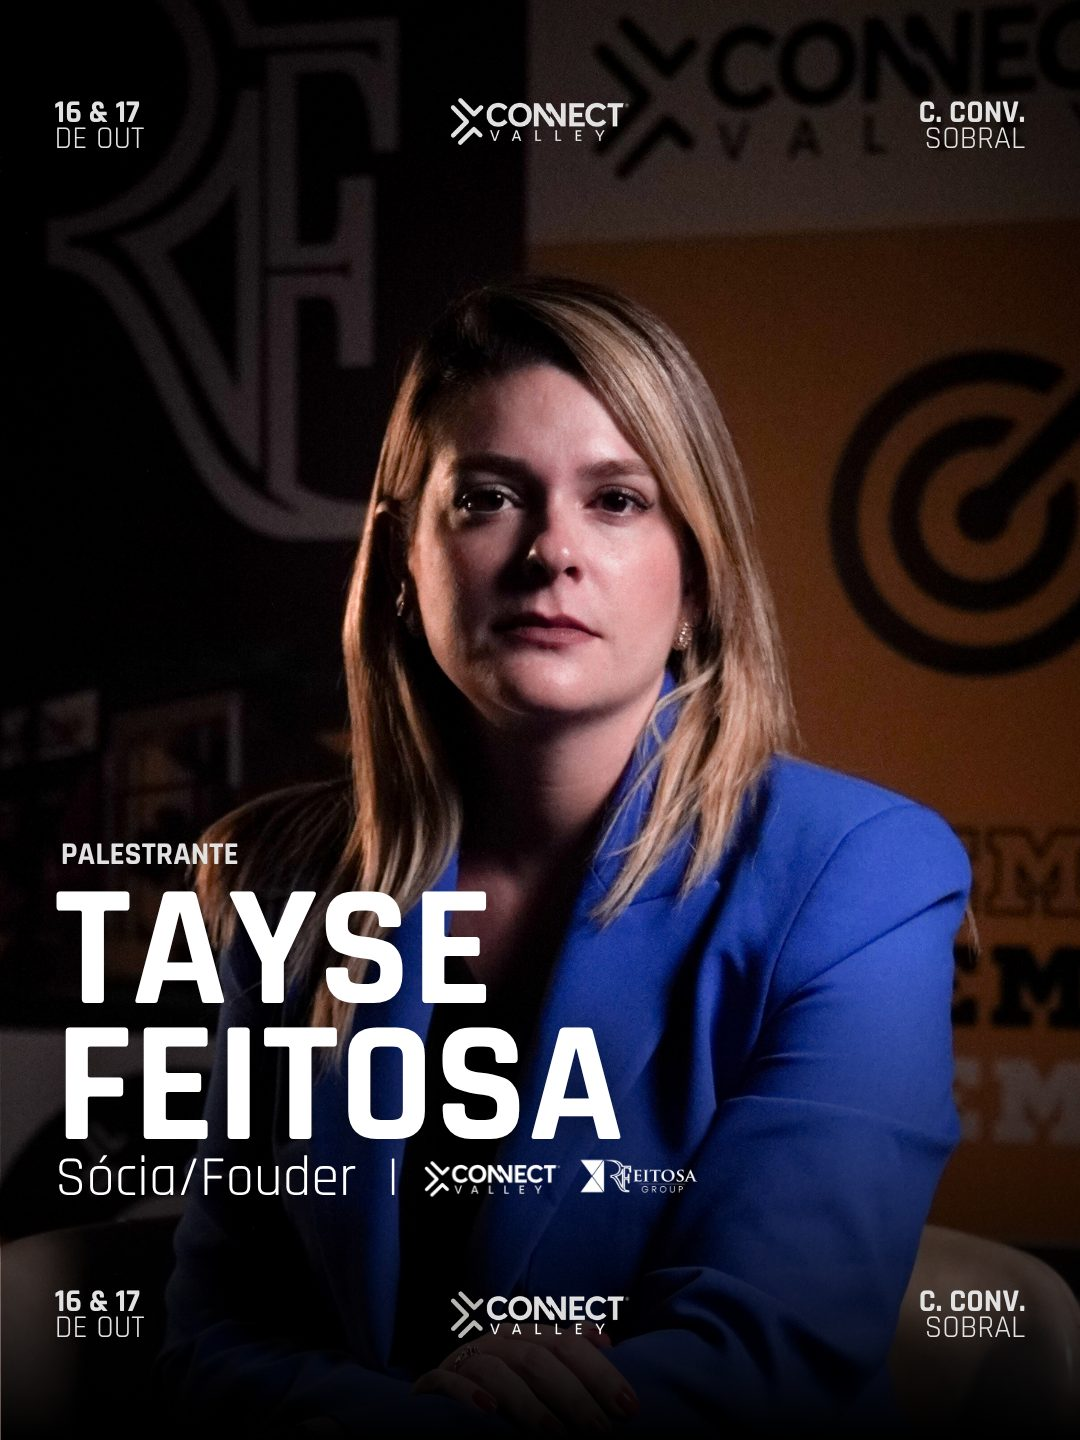
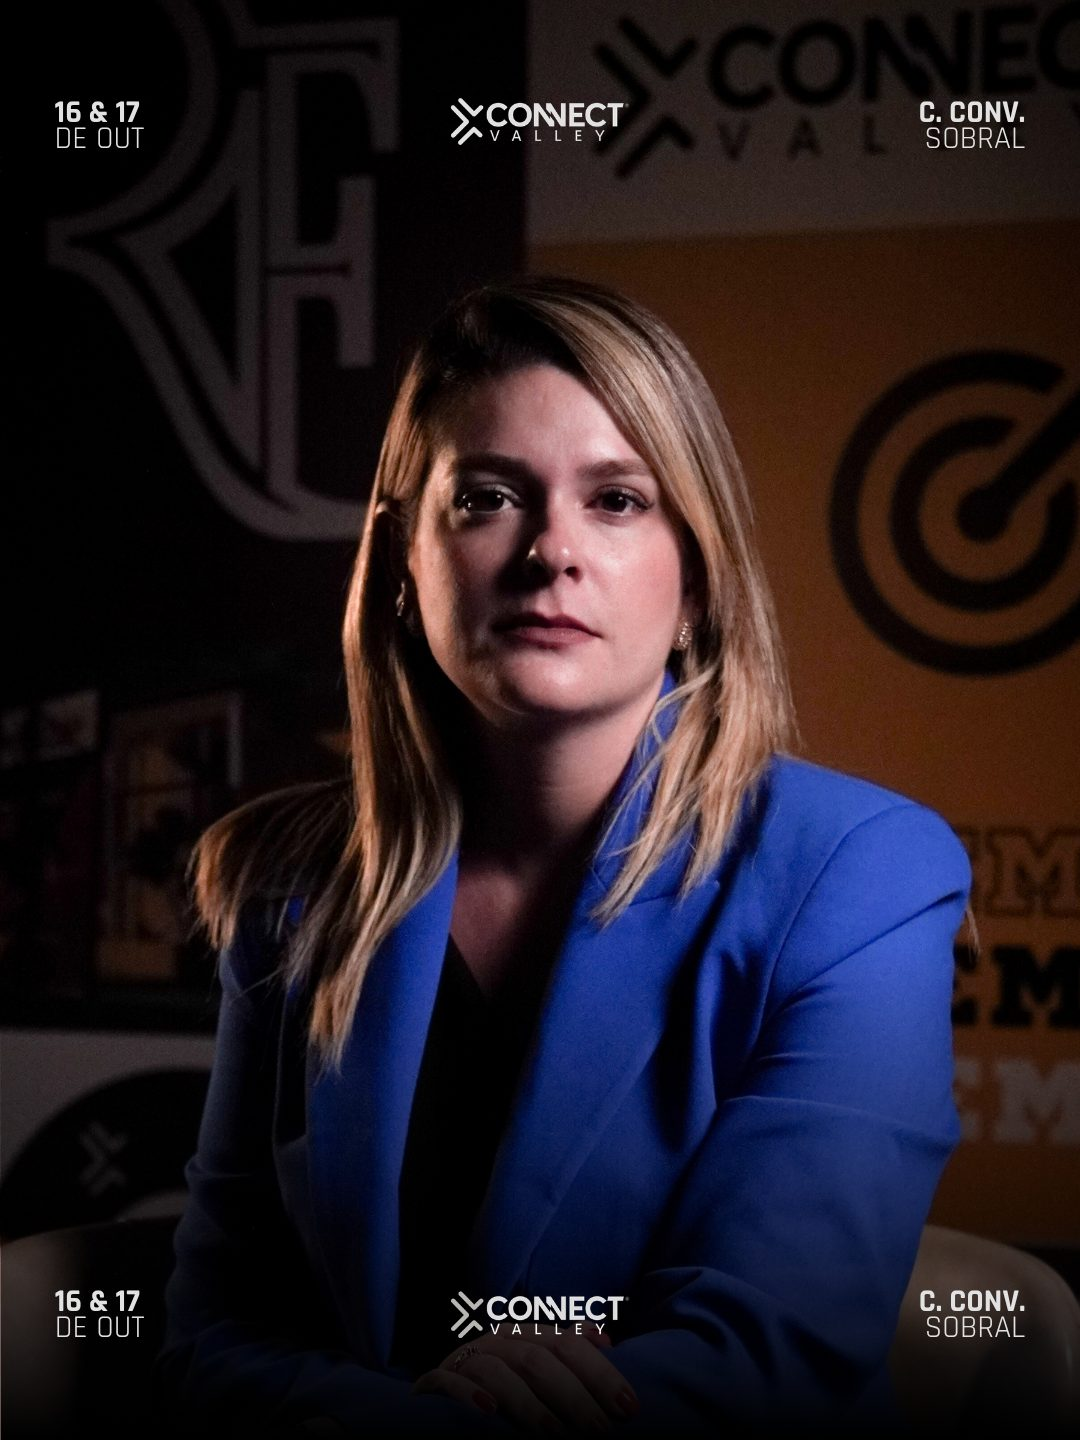
feat(palestrantes): troca os quatro retratos pela arte sem texto
Roneely, Severino, Nelson Rossi e Tayse. A arte nova não traz mais o nome
nem o cargo, o que resolve uma duplicação que existia desde antes: o card
escreve nome e cargo por cima da imagem, então quem tinha o texto gravado
aparecia duas vezes.

Resolve também o "Sócia/Fouder" da Tayse. O erro estava só na arte, e ela
não tem mais texto; o cargo agora vem do HTML, onde já está escrito
corretamente.

Os arquivos chegaram como PNG de 1,8 a 2,6 MB na raiz de assets/.
Convertidos para JPEG progressivo qualidade 82, mantendo 1080x1440, e
gravados nos nomes que o HTML procura. Somados, os quatro caem de 8,3 MB
para 503 KB.

O Nelson Rossi ganha de brinde o enquadramento certo: a versão antiga era
880x1100 (4:5) e o card é 3:4, então vinha sendo cortada na vertical.

O README passa a registrar que a arte dos retratos não deve trazer texto,
já que a duplicação não é óbvia para quem só olha o arquivo.

Claude-Session: https://claude.ai/code/session_019veoBpgYgnZdZnbfGP7Fgr

Changed region(s): [[0.0611, 0.5625, 0.6417, 0.8438]]

diff --git a/README.md b/README.md
@@ -50,14 +50,11 @@ vídeos e nos caminhos relativos.
 A hospedagem é cPanel. O conteúdo desta pasta corresponde a `public_html/`
 no servidor — publicar é sincronizar os arquivos, sem build.
 
-## Assets pendentes
+## Estado dos assets
 
-Falta um arquivo, em produção com o designer: a arte corrigida da Tayse Feitosa.
-A atual traz "Sócia/Fouder" — o erro está gravado na imagem, não no texto da
-página. Basta substituir `assets/tayse-feitosa.jpg`, sem alteração de código.
-
-Os patrocinadores estão completos: 45 logos, e as quatro cotas batem com a lista
-oficial (Diamante 4, Ouro+ 13, Ouro 11, Prata 17).
+Sem pendências. Os patrocinadores estão completos — 45 logos, com as quatro cotas
+batendo com a lista oficial (Diamante 4, Ouro+ 13, Ouro 11, Prata 17) — e os
+quatro retratos de palestrante estão na versão sem texto na arte.
 
 Nota sobre nomes, porque as duas duplas já causaram confusão:
 
@@ -109,7 +106,9 @@ já custou uma rodada de retrabalho:
   para o tamanho em que é exibida.
 
 **Retratos de palestrante** (`assets/nome-sobrenome.jpg`): JPEG progressivo,
-`1080x1440` (3:4, o mesmo `aspect-ratio` do card), qualidade 82.
+`1080x1440` (3:4, o mesmo `aspect-ratio` do card), qualidade 82. A arte não deve
+trazer o nome nem o cargo — o card já os escreve por cima, e uma arte com texto
+faz a informação aparecer duas vezes.
 
 **Logos de patrocinador** (`assets/logos/<cota>/marca.png`): PNG com fundo
 transparente e o logo em **branco monocromático**. Os cards são azul-escuros, então
